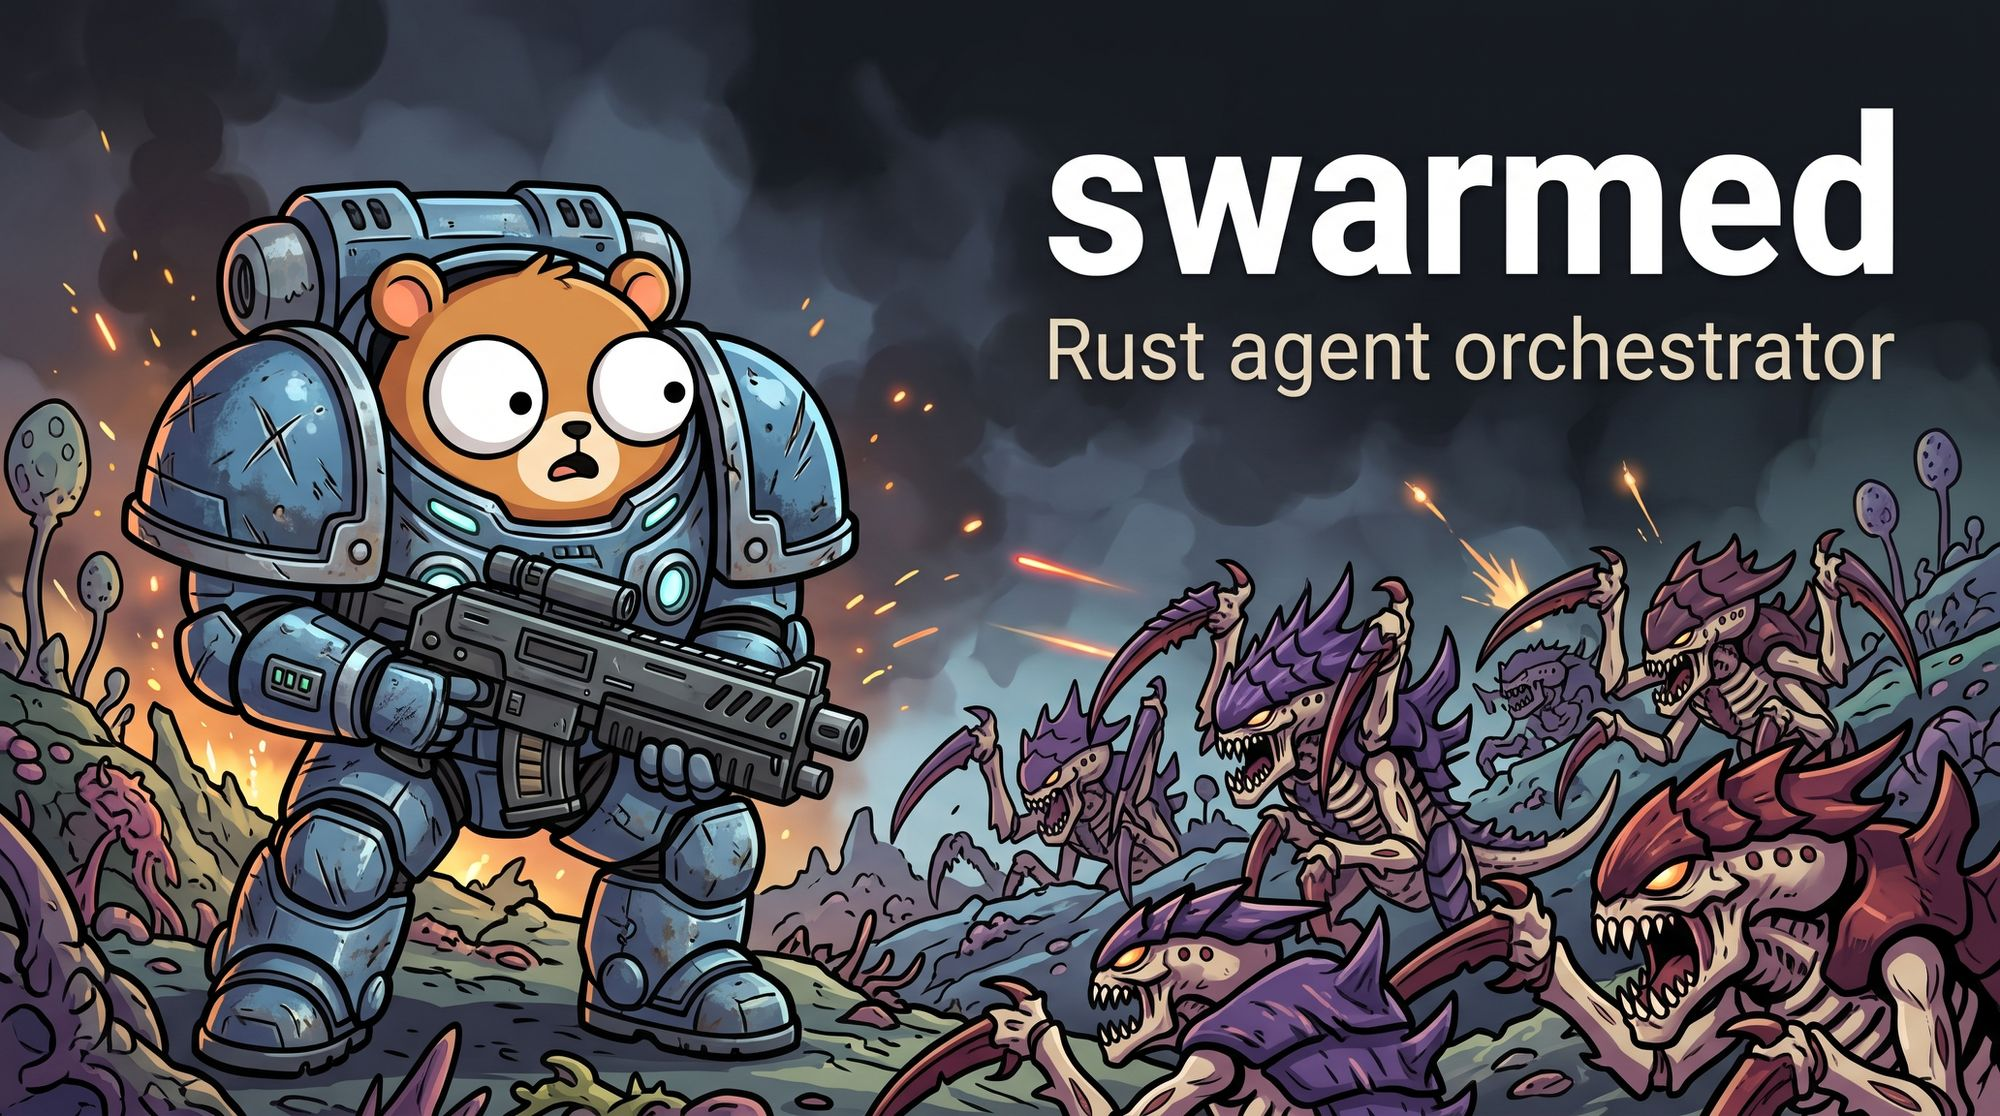
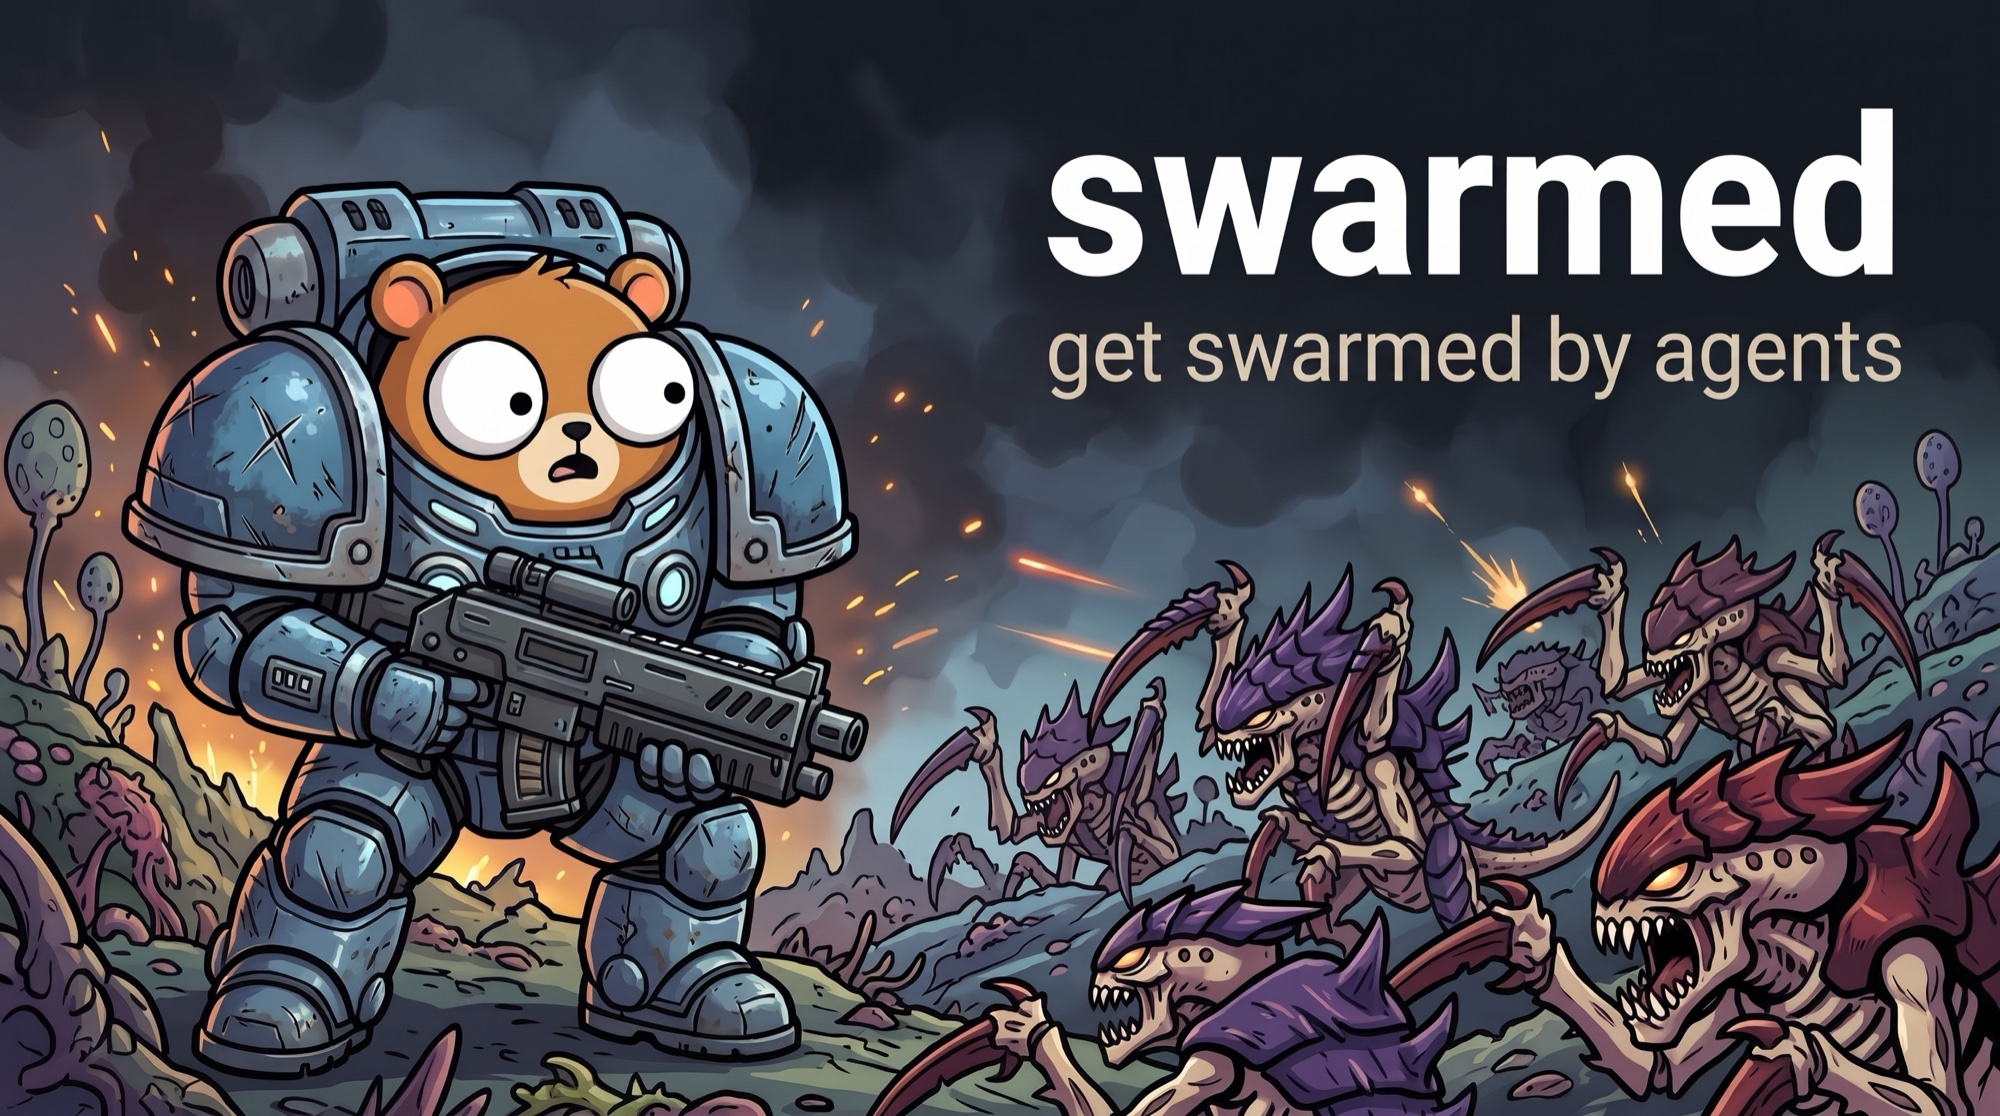
docs: a new cover, saying what Swarmed does
'get swarmed by agents' in place of 'Rust agent orchestrator', scaled to the old cover's 2000 by 1116.

diff --git a/README.md b/README.md
@@ -1,6 +1,6 @@
 # Swarmed
 
-![Swarmed: a bear in power armour facing a swarm](docs/cover.jpg)
+![Swarmed, get swarmed by agents: a bear in power armour facing a swarm](docs/cover.jpg)
 
 **Run coding agents side by side, each on a branch and in a worktree of its own.**
 
